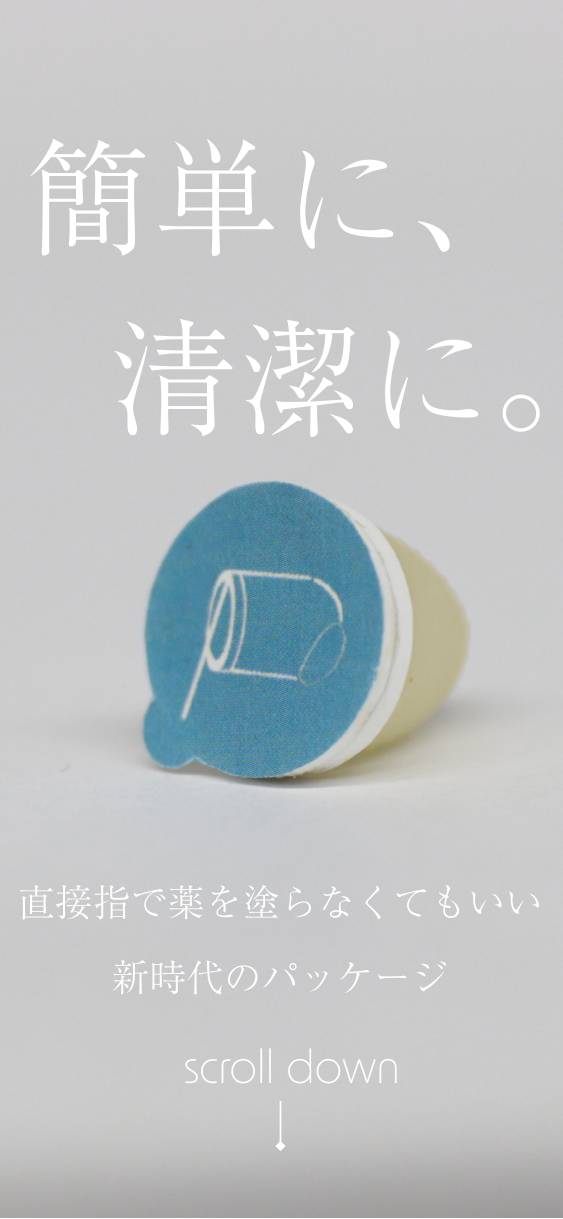
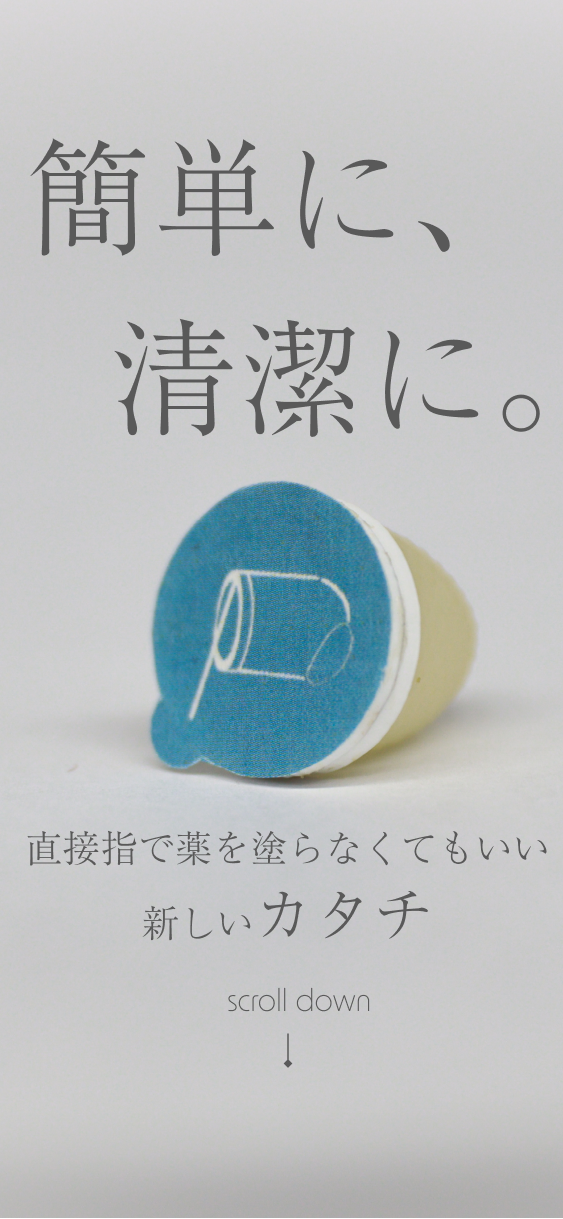
first view 動画差し替え

diff --git a/index.html b/index.html
@@ -71,7 +71,7 @@
     
     
 
-    <img src="images/first-view.webp" alt="ファーストビュー" class="first-view">
+    <img src="images/first-view.png" alt="ファーストビュー" class="first-view">
         <!--
         <h1>簡単に、清潔に。</h1>
         <ul>
@@ -79,21 +79,14 @@
             <li>　　　　　新時代のパッケージ</li>
         </ul>
     -->
-    <img src="images/first-view-sp.webp" alt="ファーストビュー" class="first-view-sp">
+    <img src="images/first-view-sp.png" alt="ファーストビュー" class="first-view-sp">
     
 
     <section>
         <!-- 製品部分 動画 -->
     <h2 id="phy">PHY</h2>
     <div class="wide-box">
-        <iframe  
-        src="https://www.youtube.com/embed/ZLBUxmIWTa0" 
-        title="YouTube video player" 
-        frameborder="0" 
-        rel="0"
-        allow="accelerometer; autoplay; clipboard-write; encrypted-media; 
-        gyroscope;" allowfullscreen>
-        </iframe>
+        <iframe src="https://www.youtube.com/embed/1EV975iJRwA" title="YouTube video player" frameborder="0" allow="accelerometer; autoplay; clipboard-write; encrypted-media; gyroscope; picture-in-picture" allowfullscreen></iframe>
         <div class="textbox">
             <h2>
                 簡単に、清潔に。<br><br>

diff --git a/css/main.css b/css/main.css
@@ -77,7 +77,6 @@ h3{
 .first-view{
     width: 100%;
     height: auto;
-    margin-top: 30px;
 }
 
 
